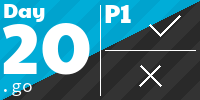
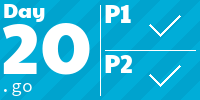
2024 Day 20 Part 2

diff --git a/2024/day20/main.go b/2024/day20/main.go
@@ -3,6 +3,7 @@ package main
 import (
 	"fmt"
 	"os"
+	"sort"
 
 	"github.com/xlzior/aoc2024/utils"
 )
@@ -28,32 +29,84 @@ func findRegularPath(grid utils.Grid, start utils.Pair) map[utils.Pair]int {
 	return path
 }
 
-func cheat(grid utils.Grid, path map[utils.Pair]int, threshold int) int {
-	count := 0
+type cheat struct {
+	start utils.Pair
+	curr  utils.Pair
+	time  int
+}
+
+func countCheats(grid utils.Grid, path map[utils.Pair]int, cheatTime, threshold int) map[[2]utils.Pair]int {
+	cheats := make(map[[2]utils.Pair]int)
+	todo := make([]cheat, 0)
+	visited := map[cheat]bool{}
+
+	// initialise todo; every cell on the path is a potential starting point
 	for curr := range path {
 		for _, dir := range utils.NSEW {
-			mid := curr.Plus(dir)
-			dst := curr.Plus(dir.Times(2))
-			if grid.GetCell(mid) == '#' && grid.GetCell(dst) != '#' && grid.Contains(dst) {
-				savings := path[curr] - path[dst] - 2
-				if savings >= threshold {
-					count++
+			next := curr.Plus(dir)
+			ch := cheat{start: curr, curr: next, time: 1}
+			todo = append(todo, ch)
+			visited[ch] = true
+		}
+	}
+	for len(todo) > 0 {
+		ch := todo[0]
+		todo = todo[1:]
+
+		// continue cheating
+		if ch.time < cheatTime {
+			for _, dir := range utils.NSEW {
+				next := ch.curr.Plus(dir)
+				ch := cheat{start: ch.start, curr: next, time: ch.time + 1}
+				if grid.Contains(next) && !visited[ch] {
+					todo = append(todo, ch)
+					visited[ch] = true
 				}
 			}
 		}
+		// end the cheat
+		if grid.GetCell(ch.curr) != '#' {
+			savings := path[ch.start] - path[ch.curr] - ch.time
+			key := [2]utils.Pair{ch.start, ch.curr}
+			if savings >= threshold && savings > cheats[key] {
+				cheats[key] = savings
+			}
+		}
 	}
-	return count
+	return cheats
+}
+
+func summariseCheats(cheats map[[2]utils.Pair]int) {
+	summary := make(map[int]int)
+	keys := make([]int, 0)
+	for ch := range cheats {
+		if summary[cheats[ch]] == 0 {
+			keys = append(keys, cheats[ch])
+		}
+		summary[cheats[ch]]++
+	}
+	sort.Ints(keys)
+	for _, savings := range keys {
+		fmt.Printf("There are %d cheats that save %d picoseconds.\n", summary[savings], savings)
+	}
 }
 
 func main() {
 	grid := utils.Grid{Grid: utils.ReadLines()}
 	start := grid.FindAllList('S')[0]
-	threshold := 0
+	threshold1 := 1
+	threshold2 := 50
 	if os.Args[1] == "puzzle.in" {
-		threshold = 100
+		threshold1 = 100
+		threshold2 = 100
 	}
 
 	path := findRegularPath(grid, start)
-	part1 := cheat(grid, path, threshold)
-	fmt.Println("Part 1:", part1)
+	part1 := countCheats(grid, path, 2, threshold1)
+	// summariseCheats(part1)
+	fmt.Println("Part 1:", len(part1))
+
+	part2 := countCheats(grid, path, 20, threshold2)
+	// summariseCheats(part2)
+	fmt.Println("Part 2:", len(part2))
 }

diff --git a/README.md b/README.md
@@ -1,9 +1,9 @@
 <!-- AOC TILES BEGIN -->
 <h1 align="center">
-  Advent of Code - 323/500 ⭐
+  Advent of Code - 324/500 ⭐
 </h1>
 <h1 align="center">
-  2024 - 45 ⭐ - Go
+  2024 - 46 ⭐ - Go
 </h1>
 <a href="2024/day01/main.go">
   <img src=".aoc_tiles/tiles/2024/01.png" width="161px">
